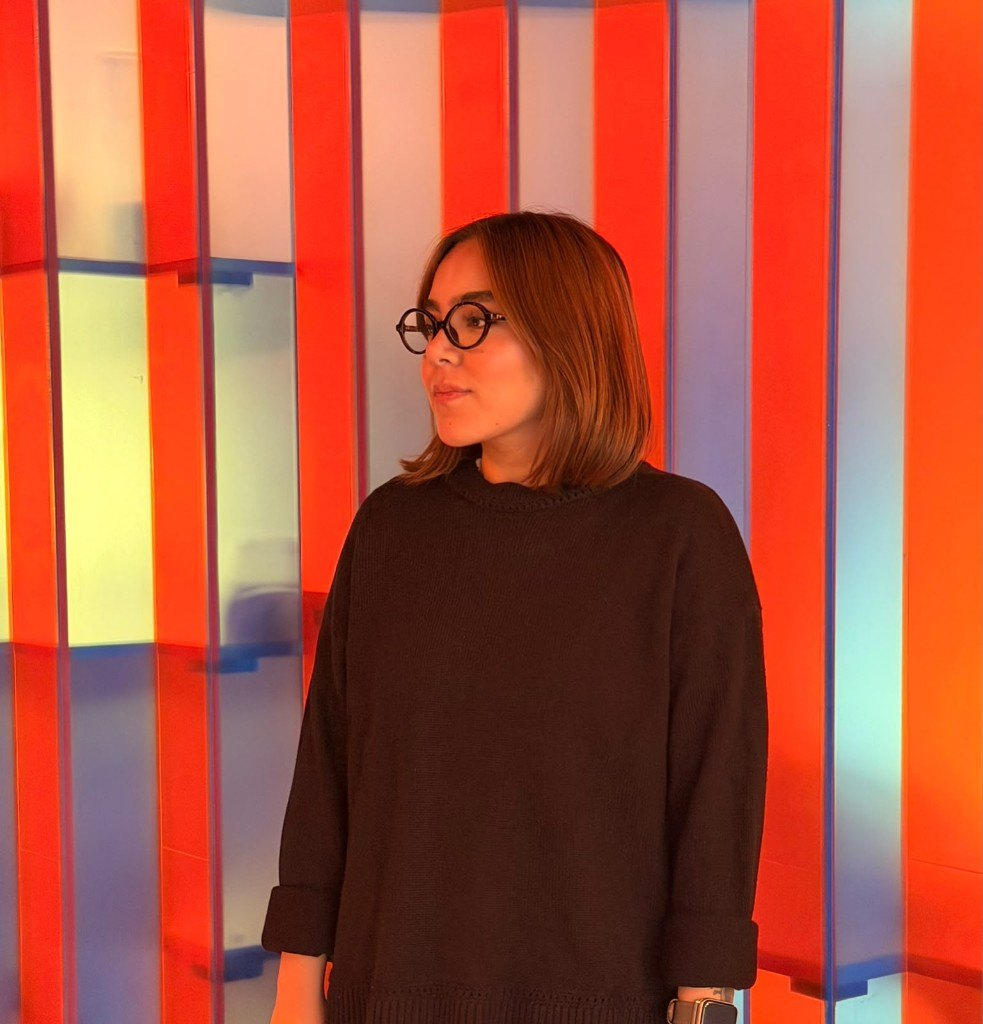
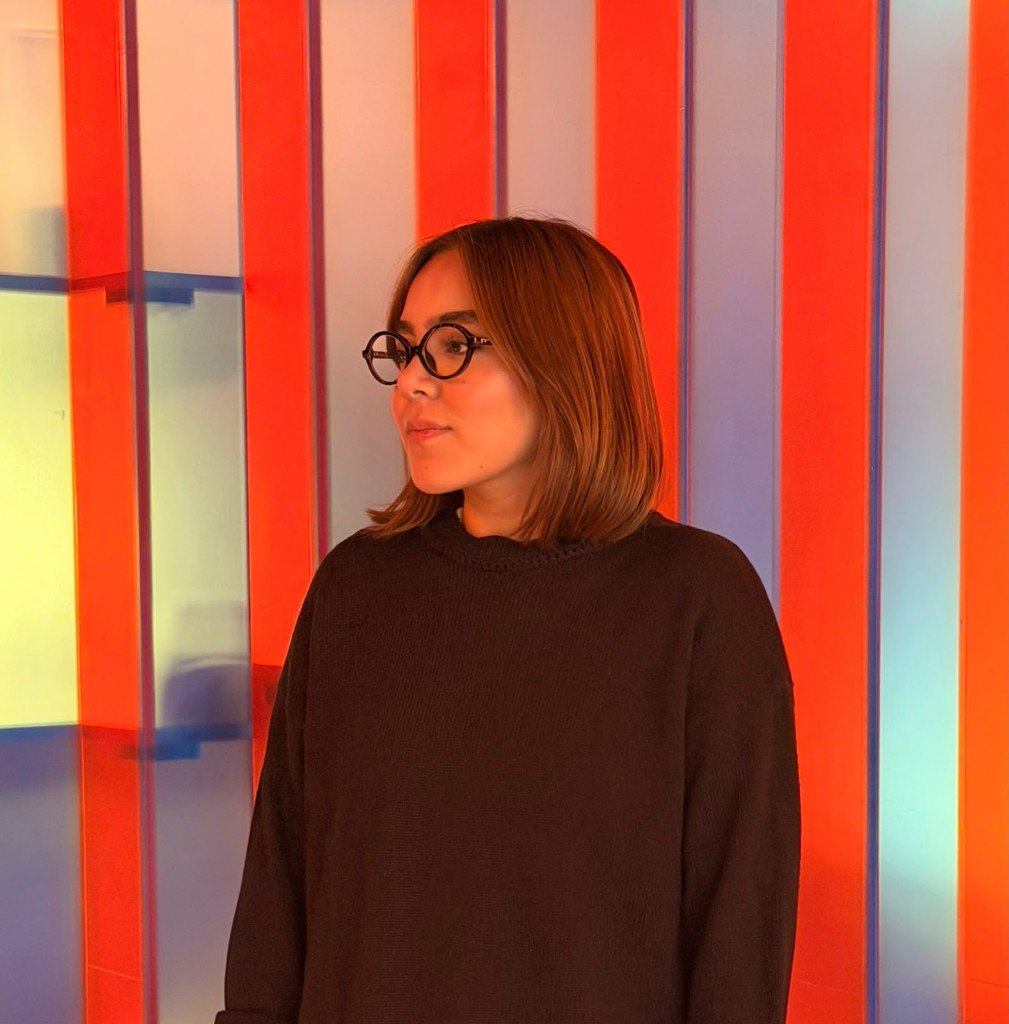
Use the square portrait without hands on the about section.

diff --git a/index.html b/index.html
@@ -82,7 +82,7 @@
           </div>
           <figure class="split__media">
             <img
-              src="assets/images/antonia-portrait.jpg"
+              src="assets/images/antonia-portrait.jpg?v=2"
               alt="Antonia Gallegos"
               width="960"
               height="1280"

diff --git a/about.html b/about.html
@@ -72,7 +72,7 @@
         </div>
         <figure class="split__media">
           <img
-            src="assets/images/antonia-portrait.jpg"
+            src="assets/images/antonia-portrait.jpg?v=2"
             alt="Retrato de Antonia Gallegos"
             width="960"
             height="1280"

diff --git a/assets/css/styles.css b/assets/css/styles.css
@@ -420,8 +420,9 @@ body.nav-open .nav-toggle span:last-child {
 
 .split__media img {
   width: 100%;
-  aspect-ratio: 3 / 4;
+  aspect-ratio: 1 / 1;
   object-fit: cover;
+  object-position: center;
   animation: softIn 1s var(--ease) both;
 }
 
